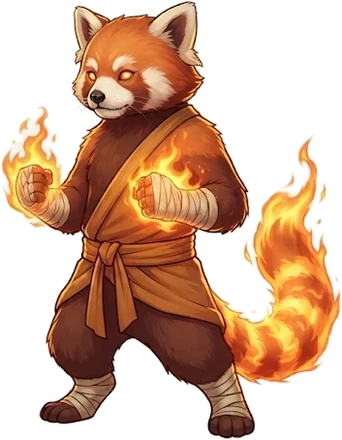
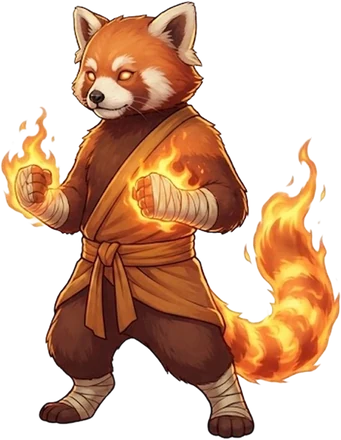
Mode test : panda roux mieux détouré
Nouveau détourage (modèle « anime » pour le corps + lueurs et flammes gardées) : plus de liseré blanc ni de taches de fond sous la queue.

Claude-Session: https://claude.ai/code/session_014VBvzn7cPipHkoepy8RC9p

diff --git a/index.html b/index.html
@@ -7373,7 +7373,7 @@ function doImport() {
 
 
 /* ===================== Nouveautés (à mettre à jour à chaque version) ===================== */
-const APP_VERSION = '9.123.8'; // ⚠ Mettre aussi le même numéro dans version.json (sinon pas de mise à jour automatique)
+const APP_VERSION = '9.123.9'; // ⚠ Mettre aussi le même numéro dans version.json (sinon pas de mise à jour automatique)
 /* Notes de mise à jour : UNE seule entrée par jour. Si une entrée existe déjà pour aujourd'hui, mets-la à jour (v = dernière version, ajoute/réécris les puces) au lieu d'en ajouter une nouvelle. */
 const CHANGELOG = [
   {v: '9.123.2', d: '2026-11-23', fr: ['Fin de séance : une fois le coffre ouvert, le bouton devient « Coffre ouvert · revoir le butin » au lieu de « Ouvrir ton coffre ».'], en: ['End of workout: once the chest is opened, the button becomes “Chest opened · see the loot” instead of “Open your chest”.']},
